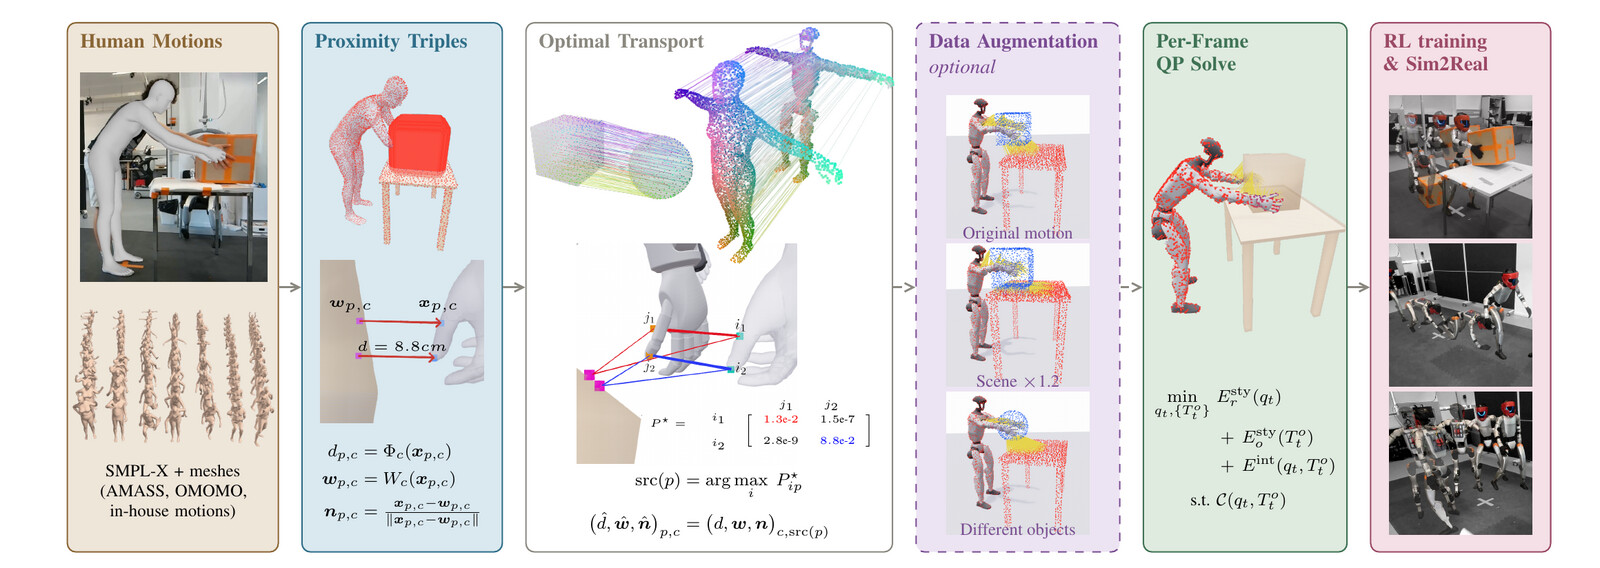
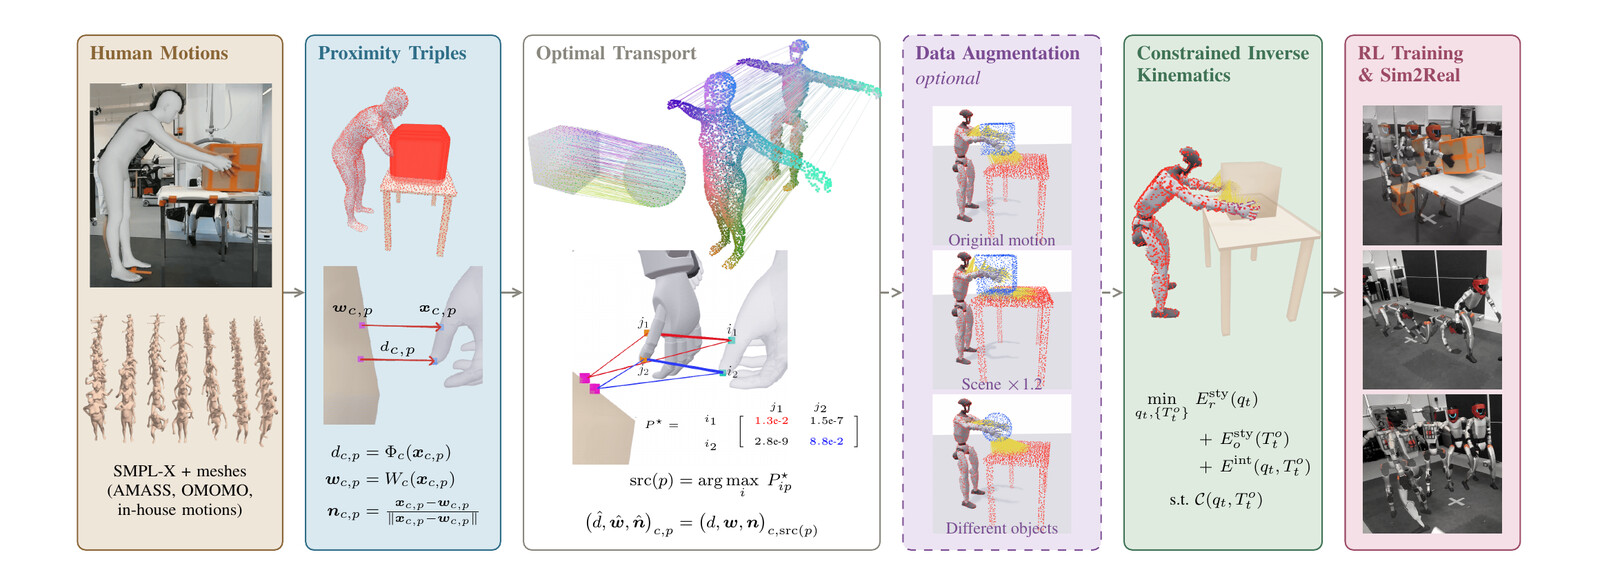
Replace the pipeline figure with the one from the arXiv build
Guillaume supplied the compiled PDF of the final version: title page reads
'Joint Robot and Object Motion Retargeting' and the text carries 51 c,p against
zero p,c. Same extraction as before, page 2 at 300 dpi cropped to the figure:
1600x568, 228 KB.

Image and caption now sit on the same revision. The figure had changed more than
its subscripts between the two: its fifth stage is labelled 'Constrained Inverse
Kinematics' where the older one read 'Per-Frame QP Solve'.

?v=2 on the src since the filename is unchanged.

diff --git a/index.html b/index.html
@@ -220,15 +220,12 @@
             </div>
             <!--/ Abstract. -->
 
-            <!-- Pipeline.
-                 ATTENTION : cette image est extraite de PaperV4.4/build/main.pdf, qui est une
-                 REVISION ANTERIEURE (ancien titre, indices p,c). La legende ci-dessous vient
-                 du zip arXiv et ecrit c,p. Les deux ne concordent donc pas : remplacer l'image
-                 par la figure compilee depuis la source arXiv. -->
+            <!-- Pipeline : figure 2 du PDF compile de la version arXiv, page 2 a 300 dpi,
+                 recadree sur la figure seule. Image et legende sont sur la meme revision. -->
             <div class="columns is-centered has-text-centered">
                 <div class="column is-max-desktop">
                     <div class="publication-image">
-                        <img src="./static/images/pipeline.jpg" alt="Pipeline overview of OTRetarget"
+                        <img src="./static/images/pipeline.jpg?v=2" alt="Pipeline overview of OTRetarget"
                             style="width:100%">
                     </div>
                     <div class="content has-text-justified">
